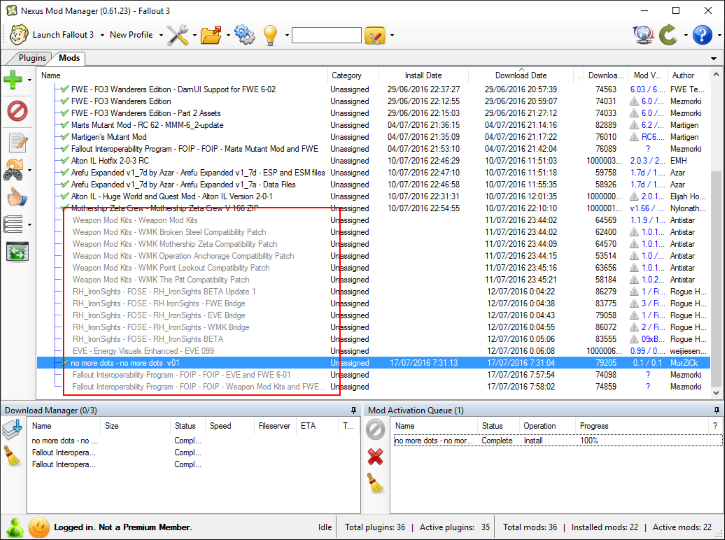
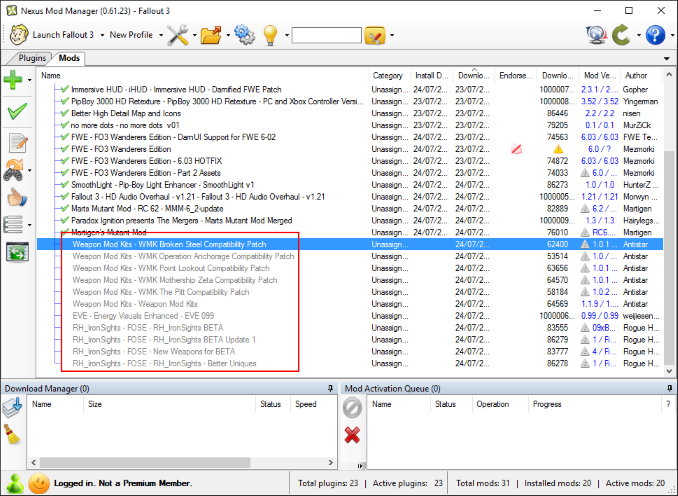
I have finished the section about weapons system revamp (WMK, EVE and RH_IronSights). The game runs without crashes (apparently), but I have no installed the compability patch among FWE, EVE and MMM, because we are going to install Project Beauty, and there is a combo patch for all of them.

diff --git a/Modding never changes.md b/Modding never changes.md
@@ -935,30 +935,121 @@ The vanilla version of _Fallout 3_ is somewhat limited regarding weapons. We'll 
 
 We are getting serious here, because, at the end of the chapter, we will have a completely revamped weapon system in the game. As usual, Gopher has a fantastic video [covering weapon mods](https://www.youtube.com/watch?v=Vli2y7ZDUbo) (15:02), although not all of them.
 
-We are going to install [_Weapon Mod Kits_](http://www.nexusmods.com/fallout3/mods/3388/?) (WMK), [_Energy Visuals Enhanced_](http://www.nexusmods.com/fallout3/mods/8340/?) (EVE) and [_Rogue Hallow's Ironsights_](http://www.nexusmods.com/fallout3/mods/6938/?) (RH_ironsights). This is going to throw a lot of files in our data folder, so, let's get started.
+We are going to install [_Weapon Mod Kits_](http://www.nexusmods.com/fallout3/mods/3388/?) (WMK), [_Energy Visuals Enhanced_](http://www.nexusmods.com/fallout3/mods/8340/?) (EVE) and [_Rogue Hallow's Ironsights_](http://www.nexusmods.com/fallout3/mods/6938/?) (RH_ironsights), along with the corresponding Paradox Ignition merged patches. This is going to throw a lot of files in our data folder, so, let's get started.
 
 1. Download the following WMK files with NMM:
-	* `_Weapon Mod Kits_`
-	* `_WMK Broken Steel Compatibility Patch_`
-	* `_WMK Mothership Zeta Compatibility Patch_`
-	* `_WMK Operation Anchorage Compatibility Patch_`
-	* `_WMK Point Lookout Compatibility Patch_`
-	* `_WMK The Pitt Compatibility Patch_`
+	* _Weapon Mod Kits_
+	* _WMK Broken Steel Compatibility Patch_
+	* _WMK Mothership Zeta Compatibility Patch_
+	* _WMK Operation Anchorage Compatibility Patch_
+	* _WMK Point Lookout Compatibility Patch_
+	* _WMK The Pitt Compatibility Patch_
 2. Download _EVE 099_ file for EVE with NMM. Ignore the optional files.
 3. Download the following RH_IronSights files with NMM:
-	* `_RH\_IronSights BETA_`
-	* `_RH\_IronSights BETA Update 1_`
-4. We will need a bunch of compatibility patches, starting with the ones along with _RH\_IronSights_.
-	* `_RH IronSights - FWE Bridge_`
-	* `_RH\_IronSights - EVE Bridge_`
-	* `_RH\_IronSights - WMK Bridge_`
-5. Finally, we need to download the compatibility patches which come with FOIP:
-	* `_FOIP - EVE and FWE 6-01_`
-	* `_FOIP - Weapon Mod Kits and FWE 6-03_`
-6. We have a good bunch of mods ready to be installed.
+	* _RH\_IronSights BETA_
+	* _RH\_IronSights BETA Update 1_
+	* _New Weapons for BETA_
+	* _RH\_IronSights - Better Uniques_
+4. We have a good bunch of mods ready to be installed.
 ![!NMM weapon mods ready](Images/NMM%20weapon%20mods%20ready.png)
-7. Install WMK and all its compatibility patches (the main file first and then the patches, in the order you like). Answer _Yes to all_ when asked for overwriting files (all from the previous FWE installation).
+5. Install WMK and all its compatibility patches (the main file first and then the patches, in any order you like). Answer _Yes to all_ when asked for overwriting files (all from the previous FWE installation).
+6. Install EVE. Again, it's going to overwrite several FWE files.
+7. Install RH_IronSights (main file, update and optionals, in this order). Answer _Yes to all_ when asked to overwrite files, as usual.
+8. Download the merged path for RH_IronSights (_RH\_Ironsights Merged_) from [Paradox Ignition page](http://www.nexusmods.com/fallout3/mods/16787/?) with NMM.
+9. Close NMM and navigate to the data folder (`[%STEAM_HOME%\steamapps\common\Fallout 3 goty\Data]`) to move the following files to a folder of your choice (say, `[RH_IronSights Backup]`):
+	* `RH_IronSights_Basic_VanillaPlugin.esp`
+	* `RH_IronSights_Basic_AnchoragePlugin.esp`
+	* `RH_IronSights_Basic_PittPlugin.esp`
+	* `RH_IronSights_Basic_BrokenSteelPlugin.esp`
+	* `RH_IronSights_Basic_PointLookoutPlugin.esp`
+	* `RH_IronSights_Basic_ZetaPlugin.esp`
+	* `RH_IronSights_Pitt_NewRifleSights.esp`
+	* `RH_IronSights_RemoveReticule.esp`
+	* `RH_IronSights_PL_NewItems.esp`
+	* `RH_IronSights_Vanilla_BetterUniques.esp`
+	* `RH_IronSights_Vanilla_NewWeapons.esp`
+10. Run NMM again and install _Paradox Ignition presents The Mergers - RH\_Ironsights Merged_. The merged patch overwrites some files from the original installation to correct/update them, so let it be.
+11. Run LOOT to rearrange your load order. This should be your setup by now.
+	* `Fallout3.esm`
+	* `Anchorage.esm`
+	* `ThePitt.esm`
+	* `BrokenSteel.esm`
+	* `PointLookout.esm`
+	* `Zeta.esm`
+	* `Unofficial Fallout 3 Patch.esm`
+	* `aHUD.esm`
+	* `iHUD.esm`
+	* `CRAFT.esm`
+	* `CALIBR.esm`
+	* `FO3 Wanderers Edition - Main File.esm`
+	* `Mart's Mutant Mod.esm`
+	* `EVE.esm`
+	* `RH_IRONSIGHTS.esm`
+	* `FO3 Wanderers Edition - Alternate Travel.esp`
+	* `CASM.esp`
+	* `FO3 Wanderers Edition - Main File.esp`
+	* `HZSmoothLight - FO3.esp`
+	* `FO3 Wanderers Edition - DLC Broken Steel.esp`
+	* `FO3 Wanderers Edition - DLC Point Lookout.esp`
+	* `FO3 Wanderers Edition - DLC Anchorage.esp`
+	* `FO3 Wanderers Edition - DLC Mothership Zeta.esp`
+	* `FO3 Wanderers Edition - DLC The Pitt.esp`
+	* `DarNifiedUIF3.esp`
+	* `WeaponModKits.esp`
+	* `WeaponModKits - BrokenSteel.esp`
+	* `WeaponModKits - OperationAnchorage.esp`
+	* `WeaponModKits - Zeta.esp`
+	* `WeaponModKits - ThePitt.esp`
+	* `WeaponModKits - PointLookout.esp`
+12. According to LOOT, the file `RH_IRONSIGHTS.esm` is dirty, so proceed to clean it up with FO3Edit. Remember: select just that file and the files it depends on will be automatically loaded.
 
+We have just installed a lot of overlapping mods, so we will need a compatibility patch to have them all working together. Nevertheless we have two alternatives here, both from [Blackened compatibility patches page](http://www.nexusmods.com/fallout3/mods/18173/?):
+
+1. We can install _Blackened FWE - MMM - EVE_ and _Blackened RH\_Ironsights - FWE - EVE_ and stop installing mods right here.
+2. We can install _Blackened FWE - MMM - EVE - Project Beauty_ and _Blackened RH\_Ironsights - FWE - EVE_, keepeng on installing mods from this guide, as we are going to get to Project Beauty, eventually.
+
+This is important... If you don't want to go further, install the FWE/MMM/EVE patch, but if you want to get to the section about face-washing the game, **DON'T** install any patch yet. Take into account that you won't be able to play until a proper compatibility patch is installed, one way or another, so curb your enthusiasm.
+
+Since I am going to deep-follow this guide (of course), I will give instructions about the RH_IronSights/FWE/EVE patch only.
+
+1. Download and install _Blackened RH\_Ironsights - FWE - EVE_ with NMM, from [Blackened](http://www.nexusmods.com/fallout3/mods/18173/?).
+2. Rearrange your load order with LOOT. Interesting changes arise:
+	* `Fallout3.esm`
+	* `Anchorage.esm`
+	* `ThePitt.esm`
+	* `BrokenSteel.esm`
+	* `PointLookout.esm`
+	* `Zeta.esm`
+	* `Unofficial Fallout 3 Patch.esm`
+	* `aHUD.esm`
+	* `iHUD.esm`
+	* `CRAFT.esm`
+	* `CALIBR.esm`
+	* `FO3 Wanderers Edition - Main File.esm`
+	* `Mart's Mutant Mod.esm`
+	* `EVE.esm`
+	* `RH_IRONSIGHTS.esm`
+	* `FO3 Wanderers Edition - Alternate Travel.esp`
+	* `CASM.esp`
+	* `FO3 Wanderers Edition - Main File.esp`
+	* `HZSmoothLight - FO3.esp`
+	* `FO3 Wanderers Edition - DLC Anchorage.esp`
+	* `FO3 Wanderers Edition - DLC The Pitt.esp`
+	* `DarNifiedUIF3.esp`
+	* `Blackened RH + FWE + EVE.esp`
+	* `FO3 Wanderers Edition - DLC Broken Steel.esp`
+	* `FO3 Wanderers Edition - DLC Point Lookout.esp`
+	* `FO3 Wanderers Edition - DLC Mothership Zeta.esp`
+	* `WeaponModKits.esp`
+	* `WeaponModKits - BrokenSteel.esp`
+	* `WeaponModKits - OperationAnchorage.esp`
+	* `WeaponModKits - Zeta.esp`
+	* `WeaponModKits - ThePitt.esp`
+	* `WeaponModKits - PointLookout.esp`
+
+If you run the game, you will notice the dramatic change when aiming your weapon. **NOW**, this is serious shit.
+
+![Fallout 3 new sights](Images/Fallout%203%20new%20sights.png)
 
 #### <a id="expandingYourWorld"></a>4.3.4. Expanding your world
 
@@ -972,11 +1063,11 @@ We are going to add three mods that add new content to the game: [_Alton, IL_](h
 4. Check they are all downloaded and ready in NMM. Take into account that _Mothership Zeta Crew_ is **HUGE** (over 1 GB), so be patient and make the most of your time reading online documentation about creating a book using LaTeX, for example.
 ![NMM new content mods](Images/NMM%20new%20content%20mods.png)
 5. Activate the files in the following order, overwriting all files when necessary (the mods shouldn't overlap, except patches over original files):
-	* `_Alton IL - Huge World and Quest Mod - Alton IL Version 2-0-1_`
-	* `_Alton IL Hotfix 2-0-3 RC_`
-	* `_Arefu Expanded v1\_7d by Azar - Arefu Expanded v1\_7a - Data Files_`
-	* `_Arefu Expanded v1\_7d by Azar - Arefu Expanded v1\_7d - ESP and ESM files_`
-	* `_Mothership Zeta Crew - Mothership Zeta Crew V 166 ZIP_`
+	* _Alton IL - Huge World and Quest Mod - Alton IL Version 2-0-1_
+	* _Alton IL Hotfix 2-0-3 RC_
+	* _Arefu Expanded v1\_7d by Azar - Arefu Expanded v1\_7a - Data Files_
+	* _Arefu Expanded v1\_7d by Azar - Arefu Expanded v1\_7d - ESP and ESM files_
+	* _Mothership Zeta Crew - Mothership Zeta Crew V 166 ZIP_
 6. When all mods are installed, fire up LOOT to rearrange your load order. This should be the load order now:
 	* `Fallout3.esm`
 	* `Anchorage.esm`

diff --git a/README.md b/README.md
@@ -6,6 +6,14 @@ Take a look at the file `Modding never changes.md`. That is the main guide file,
 
 ### Changelog
 
+**[26/07/2016] Section about weapons finished.**
+
+At last!
+
+I have finished the section about weapons system revamp (WMK, EVE and RH_IronSights). The game runs without crashes (apparently), but I have no installed the compability patch among FWE, EVE and MMM, because we are going to install Project Beauty, and there is a combo patch for all of them.
+
+The end is nigh!
+
 **[24/07/2016] Section about MMM reworked.**
 
 I have rewritten the section about _Martigen's Mutant Mod_, using one of the merged patches from Paradox Ignition. I am going to use these patches for WMK, EVE and RH_IronSights also, applying a _Blackened_ compatibility patch when finished.
